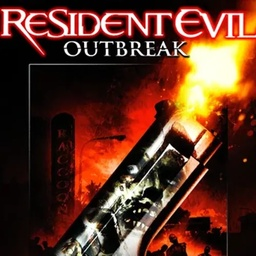
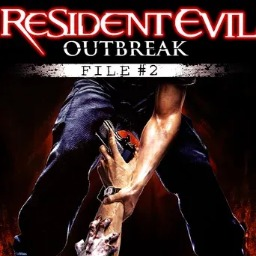
Juego: RESIDENT EVIL OUTBREAK FILE 2 (PlayStation 2)

diff --git a/launcher/source/fixed_game.h b/launcher/source/fixed_game.h
@@ -1,0 +1,4 @@
+#pragma once
+#define FIXED_DISC "sdmc:/switch/nxmasters/games/RE Outbreak File 2.iso"
+#define FIXED_TITLE "RESIDENT EVIL OUTBREAK FILE 2"
+#define FIXED_AUTHOR "grupo NX masters"
